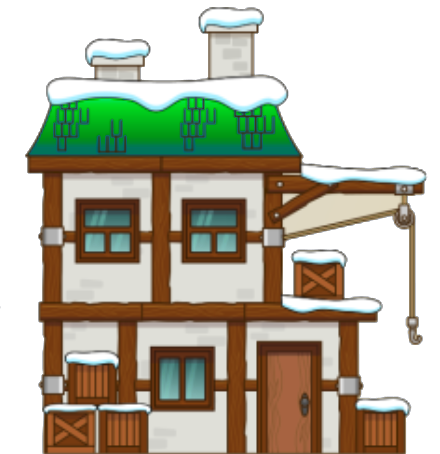
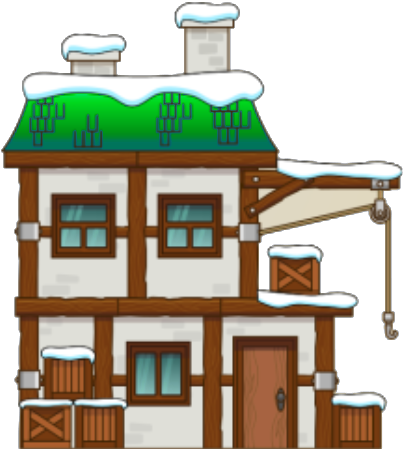
got rid of the house1 without the chimneys

diff --git a/js/game.js b/js/game.js
@@ -248,46 +248,60 @@ class Game {
   }
 
   addHouse() {
-    if(this.houses.length === 0) {
-      this.houses.push(new House(
-        this,
-        Math.random() * (canvasHeight / 2 - canvasHeight / 4) +
-            canvasHeight / 4))
-      this.houses[0].x = 100;
-      this.houses.push(new House(
-        this,
-        Math.random() * (canvasHeight / 2 - canvasHeight / 4) +
-            canvasHeight / 4))
-      this.houses[1].x = 300;
-      this.houses.push(new House(
-        this,
-        Math.random() * (canvasHeight / 2 - canvasHeight / 4) +
-            canvasHeight / 4))
-      this.houses[2].x = 500;
-    }
-    if (this.houses.length < 6) {
-      this.houses.push(  
+    if (this.houses.length === 0) {
+      this.houses.push(
         new House(
           this,
           Math.random() * (canvasHeight / 2 - canvasHeight / 4) +
             canvasHeight / 4
         )
       );
+      this.houses[0].x = -100;
+      this.houses.push(
+        new House(
+          this,
+          Math.random() * (canvasHeight / 2 - canvasHeight / 4) +
+            canvasHeight / 4
+        )
+      );
+      this.houses[1].x = 200;
+      this.houses.push(
+        new House(
+          this,
+          Math.random() * (canvasHeight / 2 - canvasHeight / 4) +
+            canvasHeight / 4
+        )
+      );
+      this.houses[2].x = 500;
+    }
+
+    if (this.houses[this.houses.length-1].x < canvasWidth - this.houses[this.houses.length-1].img.width) {
+      this.houses.push(
+        new House(
+          this,
+          Math.random() * (canvasHeight / 2 - canvasHeight / 8) +
+            canvasHeight / 8
+        )
+      );
+    }
+    // if (this.houses.length < 5) {
+    //   this.houses.push(
+    //     new House(
+    //       this,
+    //       Math.random() * (canvasHeight / 2 - canvasHeight / 4) +
+    //         canvasHeight / 4
+    //     )
+    //   );
+    // }
   }
-}
-  
 
   checkPresentDelivered() {
     for (let present of this.presents) {
       for (let house of this.houses) {
         if (
-          present.y + present.height > house.y &&
-          present.x + present.width >= house.targetX[0] &&
-          present.x <= house.x + house.targetWidth[0] ||
-          present.y + present.height > house.y &&
-          present.x + present.width >= house.targetX[1] &&
-          present.x <= house.x + house.targetWidth[1]
-
+          (present.y + present.height > house.y &&
+            present.x + present.width >= house.targetX &&
+            present.x <= house.x + house.targetWidth)
         ) {
           const indexOfPresent = this.presents.indexOf(present);
           this.presents.splice(indexOfPresent, 1);

diff --git a/js/house.js b/js/house.js
@@ -1,7 +1,5 @@
 const houseImage = new Image();
 const houseSrcPath = [
-    '../img/houses/house1_purple.png',
-    '../img/houses/house1_red.png',
     '../img/houses/house2_blue.png',
     '../img/houses/house2_lightblue.png',
     '../img/houses/house2_brown.png',
@@ -21,7 +19,7 @@ class House {
     this.width = this.img.width;
     this.height = this.img.height;
     this.delivered = false;
-    this.houseIndex = Math.floor(Math.random() * 10)
+    this.houseIndex = Math.floor(Math.random() * 8)
     this.img.src = houseSrcPath[this.houseIndex];
     this.checkHighestPoint();
     this.targetX = 0;
@@ -33,13 +31,13 @@ class House {
         console.log( 'house #1');
     } else if (this.houseIndex >= 2 && this.houseIndex < 7) {
         console.log('house #2');
-        console.log(this.targetX);
         this.targetX = 100;
+        console.log(this.targetX);
         this.targetWidth = 30;
     } else if (this.houseIndex >= 7 && this.houseIndex < 10) {
         console.log('house #3');
-        console.log(this.targetX);
         this.targetX = 100;
+        console.log(this.targetX);
         this.targetWidth = 60;
     }
     }
